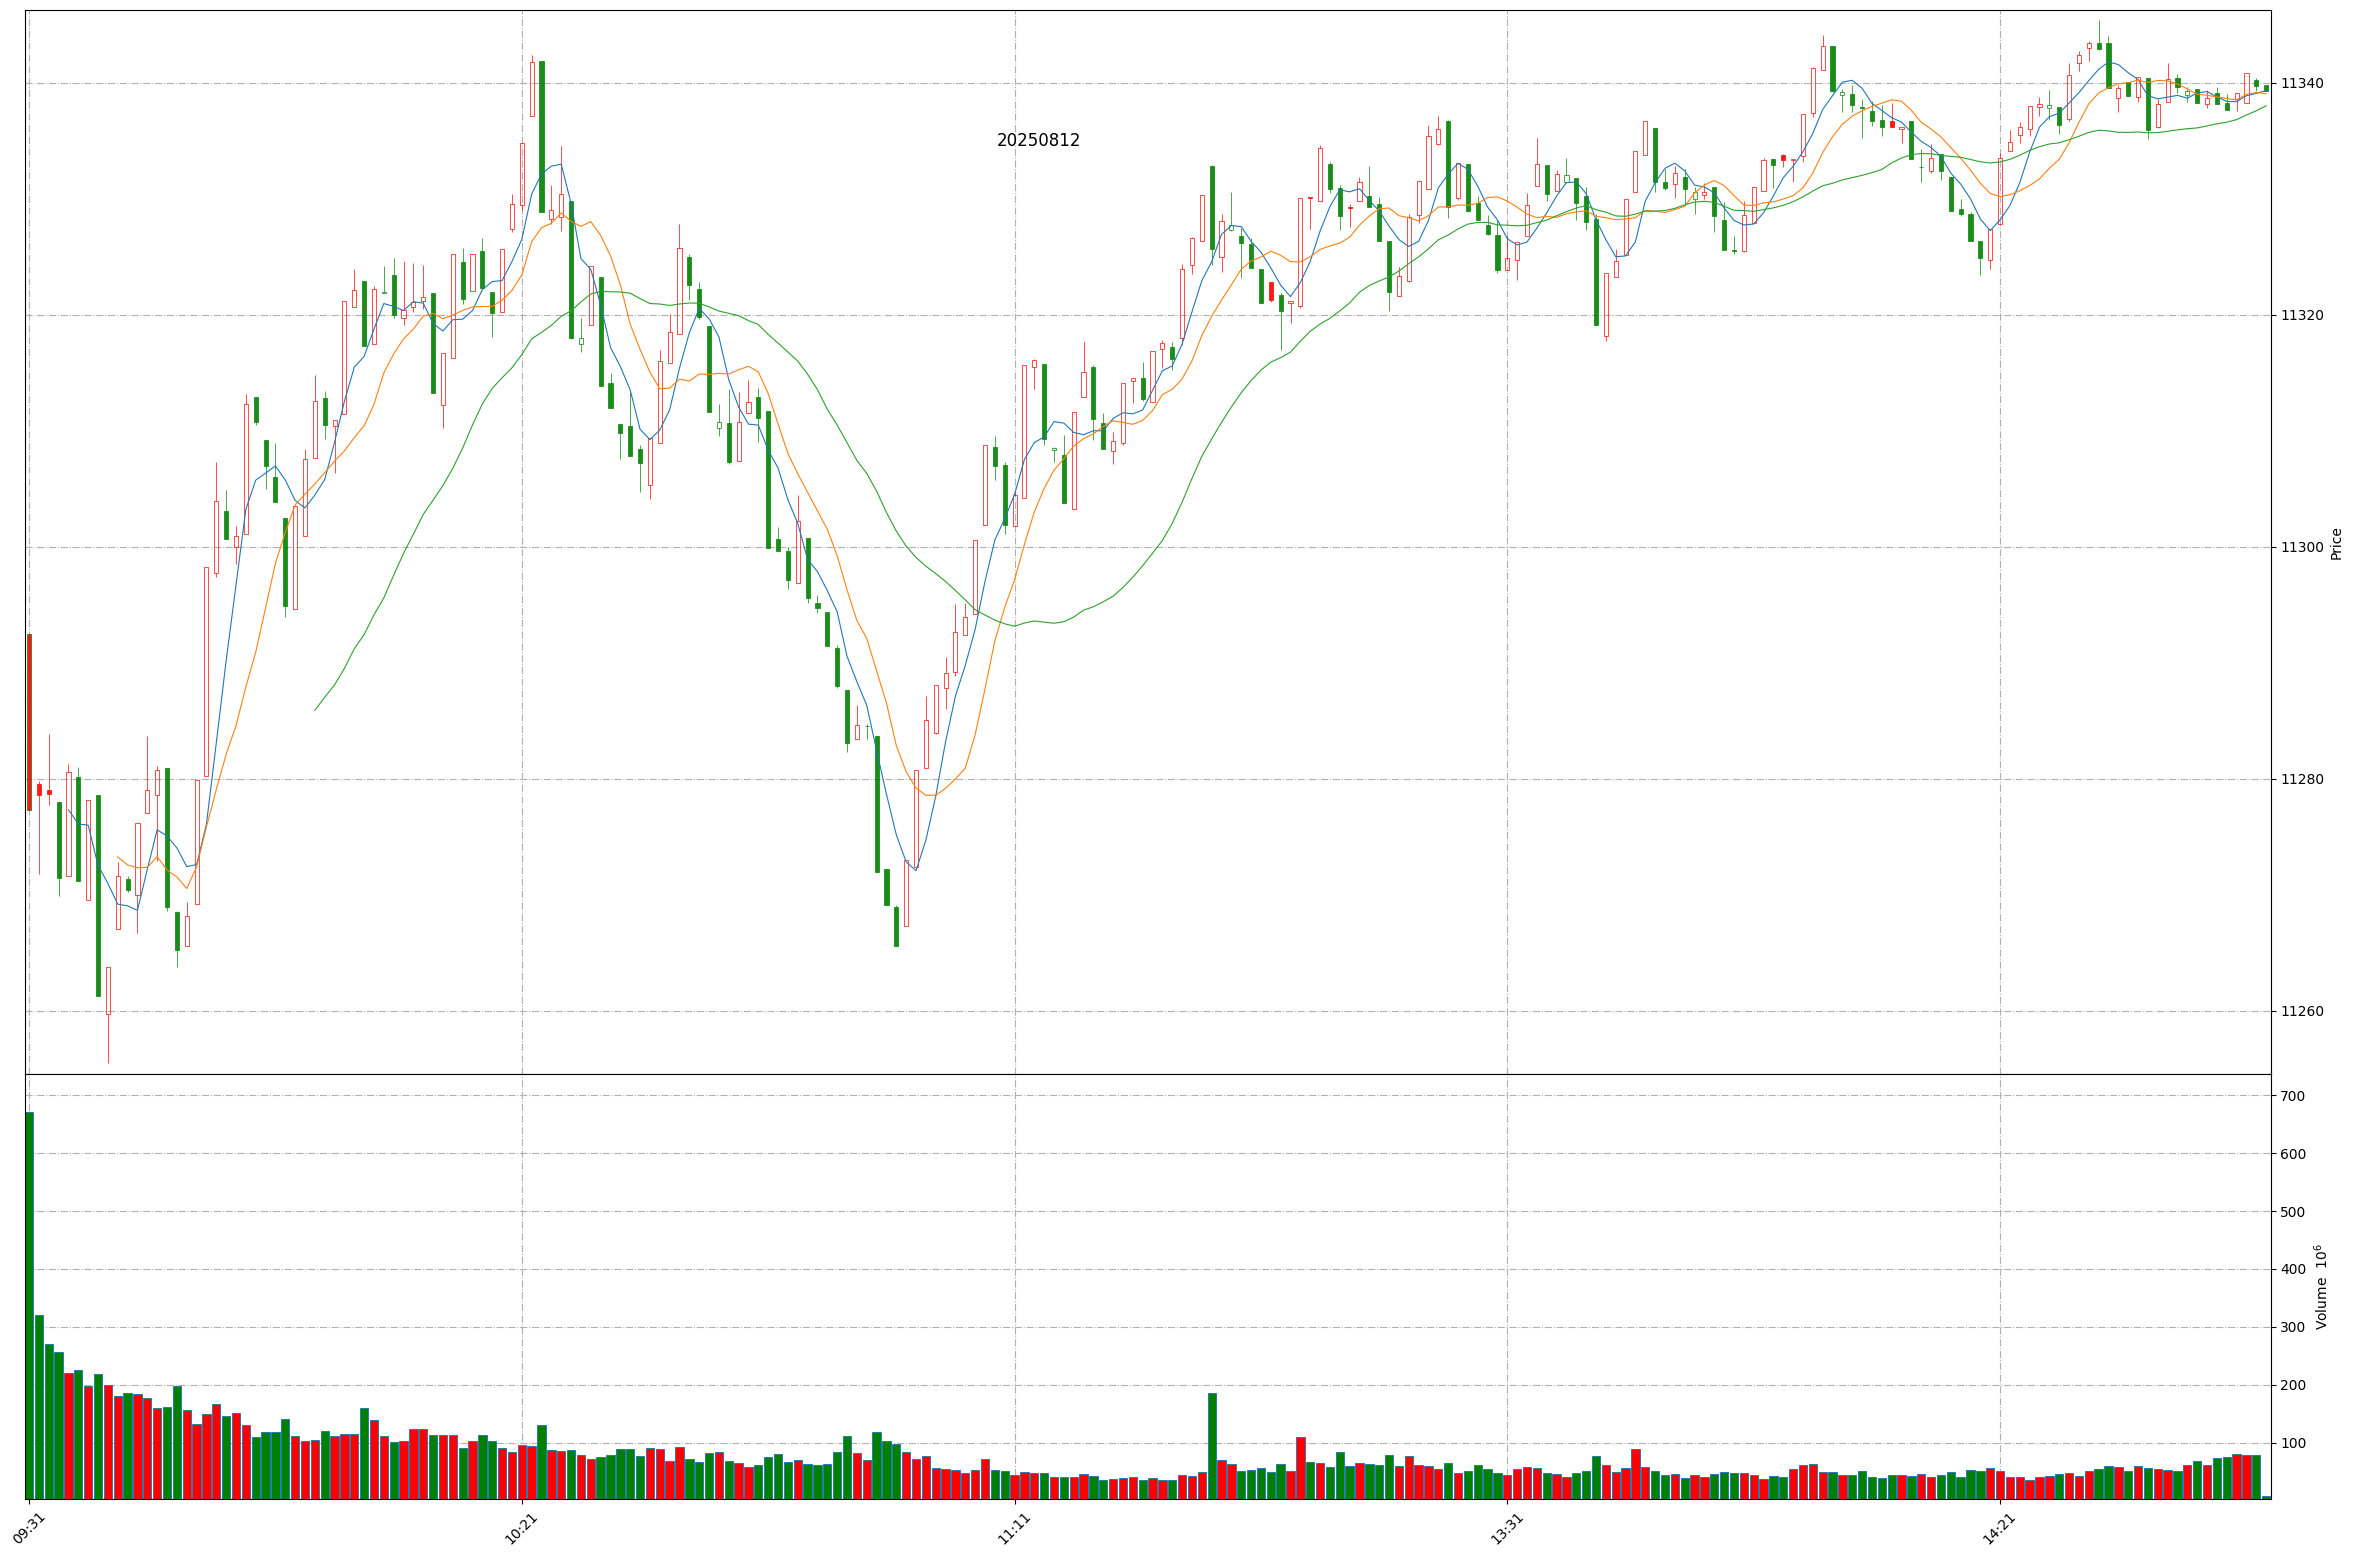
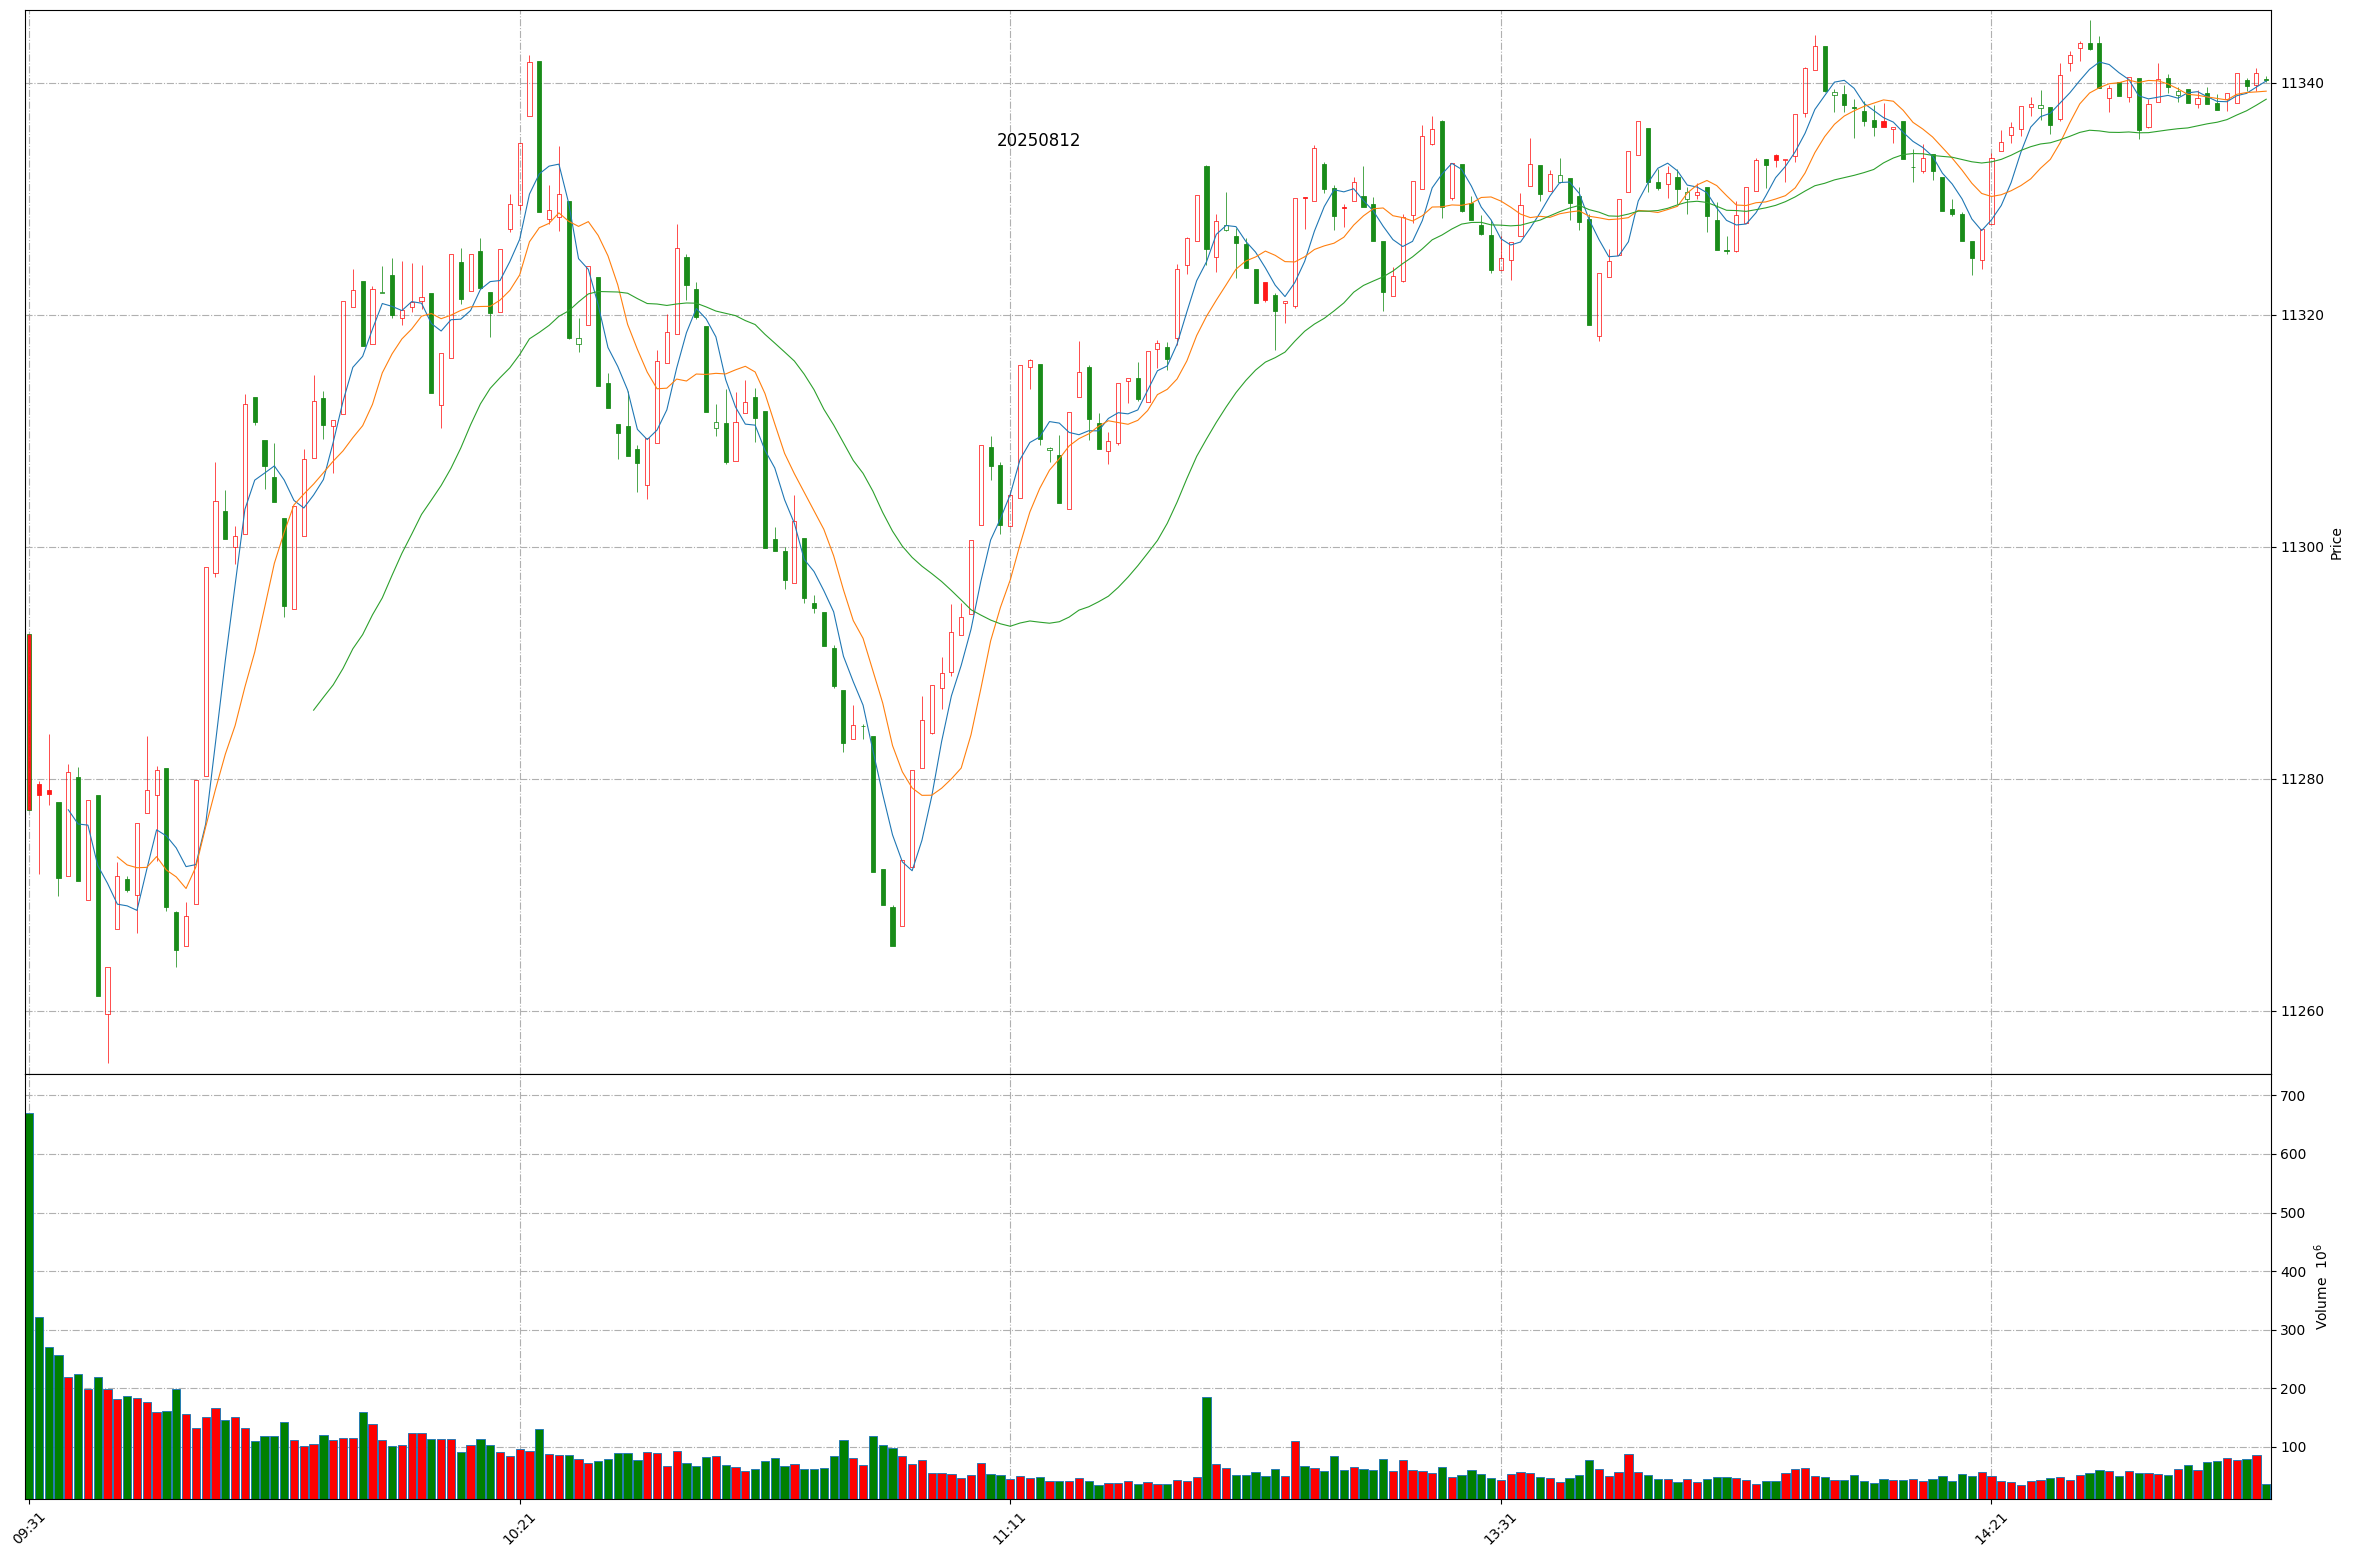
Github action update at 2025-08-12 14:48:43.

diff --git a/README.md b/README.md
@@ -1,11 +1,11 @@
 
 # Daily-A-share-market-quotes 每日 A 股指数（5min 更新）- 20250812
 
-### 上证指数 20250812 14:47
+### 上证指数 20250812 14:48
 ![](./fig/2025/8/20250812-sh000001.png)
 
-### 深证成指 20250812 14:47
+### 深证成指 20250812 14:48
 ![](./fig/2025/8/20250812-sz399001.png)
 
-### 北证50 20250812 14:47
+### 北证50 20250812 14:48
 ![](./fig/2025/8/20250812-bj899050.png)
